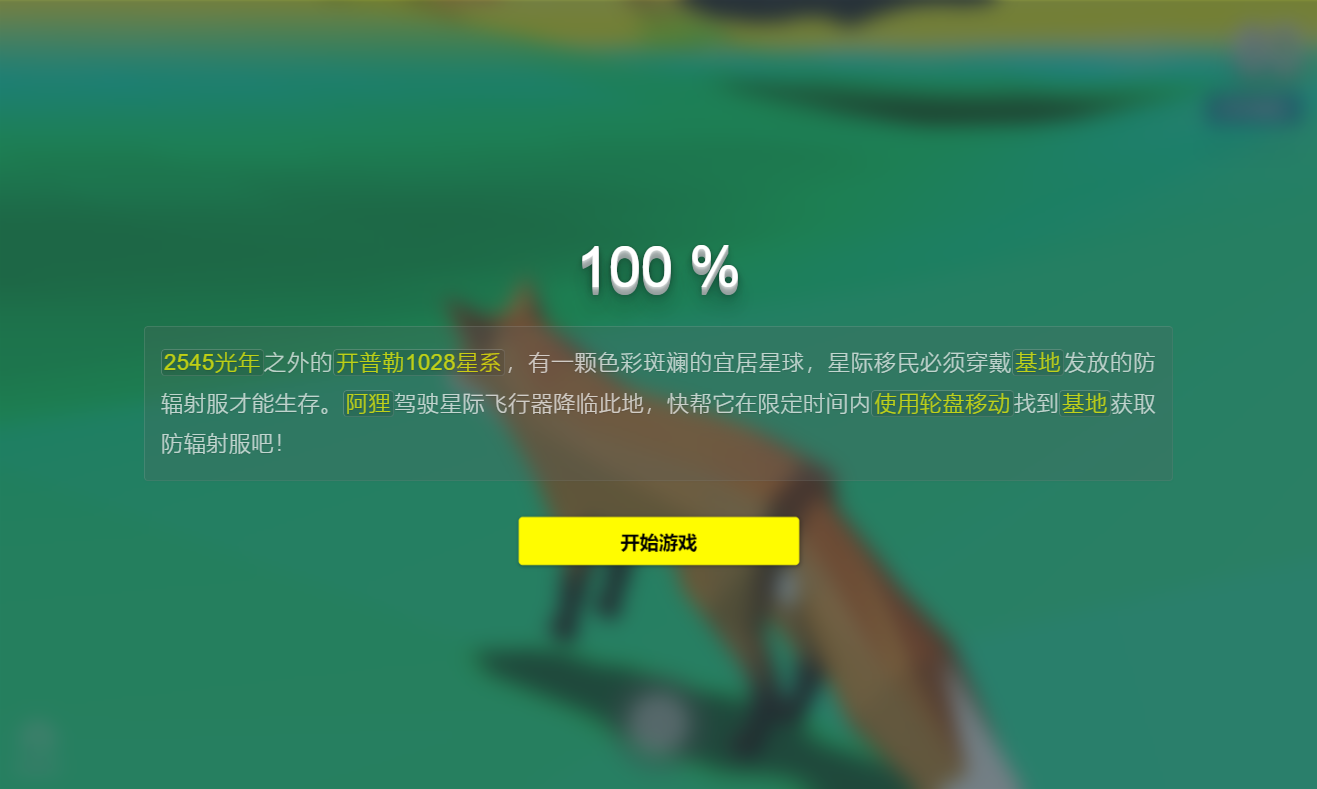
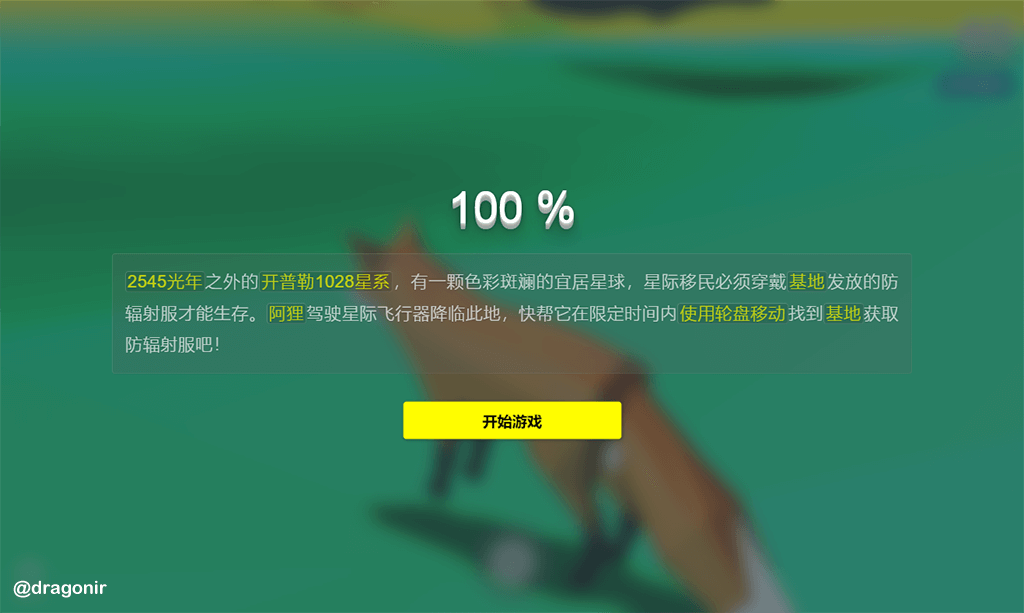
feat: Home 增加Metaverse入口、图片压缩优化.

diff --git a/src/containers/Home/index.js b/src/containers/Home/index.js
@@ -20,10 +20,9 @@ import humanImage from './images/human.png';
 import olympicImage from './images/olympic.png';
 import comicImage from './images/comic.png';
 import floatingImage from './images/floating.png';
-// import lowployImage from './images/lowploy.png';
 import liveImage from './images/live.png';
 import ringImage from './images/ring.png';
-
+import metaverseImage from './images/metaverse.png';
 
 import './index.css';
 
@@ -47,6 +46,13 @@ const workList = [
     title: '2022冬奥会3D趣味页面',
     description: '🐼 萌萌的冰墩墩和雪容融送给大家！',
     image: olympicImage,
+    three: true
+  },
+  {
+    link: '#/metaverse',
+    title: '阿狸的多元宇宙',
+    description: '🦊 阿狸的星际旷野之息！',
+    image: metaverseImage,
     three: true
   },
   {
@@ -179,14 +185,7 @@ const workList = [
     title: '塞尔达：旷野之息地图',
     description: '🗺 在地图上标记神庙、查询回忆点！',
     image: zeldaMapImage,
-  },
-  // {
-  //   link: '#/cityLowploy',
-  //   title: '低面数城市',
-  //   description: '🏙 3D数字城市 【⚠优化中】',
-  //   image: lowployImage,
-  //   three: true
-  // },
+  }
 ];
 
 export default class Home extends React.Component {

diff --git a/src/App.js b/src/App.js
@@ -14,7 +14,6 @@ import Diamond from './containers/Diamond/index';
 import Human from './containers/Human/index';
 import Olympic from './containers/Olympic/index';
 import Comic from './containers/Comic/index';
-import CityLowploy from './containers/CityLowploy/index';
 import Live from './containers/Live/index';
 import Floating from './containers/Floating/index';
 import Heart from './containers/Heart/index';
@@ -40,7 +39,6 @@ function App() {
           <Route element={ <Human /> } path="/human" />
           <Route element={ <Olympic /> } path="/olympic" />
           <Route element={ <Comic /> } path="/comic" />
-          <Route element={ <CityLowploy /> } path="/cityLowploy" />
           <Route element={ <Live /> } path="/live" />
           <Route element={ <Floating /> } path="/floating" />
           <Route element={ <Heart /> } path="/heart" />

diff --git a/src/containers/Metaverse/scripts/CannonHelper.js b/src/containers/Metaverse/scripts/CannonHelper.js
@@ -191,7 +191,7 @@ export default class CannonHelper {
           geometry.computeBoundingSphere();
           geometry.computeFaceNormals();
           var rev = true;
-          var cols = [{
+          var colors = [{
             stop: 0,
             color: new THREE.Color(0xf12711)
           }, {
@@ -207,7 +207,7 @@ export default class CannonHelper {
             stop: 1,
             color: new THREE.Color(0x053105)
           }];
-          setGradient(geometry, cols, 'z', rev);
+          setGradient(geometry, colors, 'z', rev);
           function setGradient(geometry, colors, axis, reverse) {
             geometry.computeBoundingBox();
             var bbox = geometry.boundingBox;

diff --git a/src/containers/Metaverse/README.md b/src/containers/Metaverse/README.md
@@ -31,22 +31,27 @@
 
 ## 设计
 
+游戏流程如下图所示，页面加载完成后点击开始按钮，然后在限定时间内通过控制页面滑轮移动模型，找到目标基地所在的位置，寻找成功或失败都会显示结果页，结果上面有两个按钮**再试一次**和**自由探索**，点击**再试一次**时间会重置，然后重新回到起点开始倒计时。点击**自由探索**则不在计时，玩家可以在3D开放世界里操作模型自由探索。同时，游戏内页面也提供一个**时光倒流**按钮，它的作用是玩家可以在失败前自己手动重置倒计时 `⏳`，重新回到起点开始游戏。
+
 ![progress](./images/progress.png)
 
 ## 实现
 
 ### 加载资源
 
+加载开发所需的必备资源：`GLTFLoader` 用于加载狐狸 `🦊` 和基地 `🏠` 模型、`CANNON` 是用于创建3D世界的物理引擎；`CannonHelper` 是对 `CANNON` 一些使用方法的封装；`JoyStick` 用于创建滑动屏幕控制模型的滚轮。
+
 ```js
-import React from 'react';
-import * as THREE from './libs/three.module';
-import { GLTFLoader } from './libs/GLTFLoader';
+import * as THREE from 'three';
+import { GLTFLoader } from 'three/examples/jsm/loaders/GLTFLoader';
 import CANNON from 'cannon';
 import CannonHelper from './scripts/CannonHelper';
 import JoyStick from './scripts/JoyStick';
 ```
 
 ### 页面结构
+
+页面结构比较简单，`.webgl` 用于渲染 `WEBGL`；`.tool` 是游戏内的工具栏，用于重置游戏和显示一些提示语；`.loading` 是游戏加载页面，用来显示游戏加载进度、介绍游戏规则、显示游戏开始按钮；`.result` 是游戏结果页面，用于显示游戏成功或失败结果，并提供**再试一次**和**自由探索**两个按钮。
 
 ```js
 (<div id="metaverse">
@@ -75,6 +80,8 @@ import JoyStick from './scripts/JoyStick';
 
 ### 数据初始化
 
+数据变量包括加载进度、是否显示加载页面、是否显示结果页、结果页文案、倒计时、是否开启自由探索等。
+
 ```js
 state = {
   loadingProcess: 0,
@@ -88,66 +95,84 @@ state = {
 
 ### 场景初始化
 
+初始化场景、相机、光源。
+
 ```js
-const canvas = document.querySelector('canvas.webgl');
 const renderer = new THREE.WebGLRenderer({
-  canvas: canvas,
+  canvas: document.querySelector('canvas.webgl'),
   antialias: true,
   alpha: true
 });
 renderer.setSize(window.innerWidth, window.innerHeight);
 renderer.setPixelRatio(Math.min(window.devicePixelRatio, 2));
 renderer.shadowMap.enabled = true;
-renderer.shadowMapSoft = true;
 renderer.shadowMap.type = THREE.PCFSoftShadowMap;
 const scene = new THREE.Scene();
-this.scene = scene;
+// 添加主相机
 const camera = new THREE.PerspectiveCamera(45, window.innerWidth / window.innerHeight, .01, 100000);
 camera.position.set(1, 1, -1);
-this.camera = camera;
 camera.lookAt(scene.position);
-
+// 添加环境光
 const ambientLight = new THREE.AmbientLight(0xffffff, .4);
 scene.add(ambientLight)
-
-// 添加 front & back 光源
+// 添加平行光
 var light = new THREE.DirectionalLight(0xffffff, 1);
 light.position.set(1, 1, 1).normalize();
 scene.add(light);
 ```
 
+#### `💡` 阴影类型
+
+本文使用了 `THREE.PCFSoftShadowMap` 以开启效果更加柔和的阴影，`Three.js` 提供以下几种阴影类型：
+
+* `THREE.BasicShadowMap`：提供未经过滤的阴影贴图，性能最快，但质量最低。
+* `THREE.PCFShadowMap`：使用 `Percentage-Closer Filtering (PCF)` 算法过滤阴影贴图，是默认类型。
+* `THREE.PCFSoftShadowMap`：使用 `PCF` 算法过滤的更加柔和的阴影贴图，尤其是在使用低分辨率阴影贴图时。
+* `THREE.VSMShadowMap`：使用方差阴影贴图 `VSM` 算法过滤的阴影贴图。 使用 `VSMShadowMap` 时，所有阴影接收者也会投射阴影。
+
 ### 创建世界
 
+使用 `Cannon.js` 初始化物理世界。
+
 ```js
-const cannonHelper = new CannonHelper(scene);
+// 初始化物理世界
 const world = new CANNON.World();
+// 在多个步骤的任意轴上测试刚体的碰撞
 world.broadphase = new CANNON.SAPBroadphase(world);
+// 设置物理世界的重力为沿y轴向上-10米每二次方秒
 world.gravity.set(0, -10, 0);
+// 创建默认联系材质
 world.defaultContactMaterial.friction = 0;
 const groundMaterial = new CANNON.Material("groundMaterial");
 const wheelMaterial = new CANNON.Material("wheelMaterial");
 const wheelGroundContactMaterial = new CANNON.ContactMaterial(wheelMaterial, groundMaterial, {
+  // 摩擦系数
   friction: 0,
+  // 恢复系数
   restitution: 0,
+  // 接触刚度
   contactEquationStiffness: 1000
 });
 world.addContactMaterial(wheelGroundContactMaterial);
 ```
 
+#### `💡` Cannon.js
+
+`Cannon.js` 是用 `JavaScript` 实现的物理引擎库，可以与任何支持浏览器的渲染或游戏引擎，可以用于模拟刚体，实现3D世界中更加真实的物理形式的移动和交互。更多 `Cannon.js` 相关 `API` 文档和示例可以参考文章末尾链接。
+
 ### 创建星空
 
+创建 `1000` 个粒子用于模型星空，并将它们添加到场景中。本示例中通过着色器形式创建粒子，这样更有利于 `GPU` 高效率渲染。
+
 ```js
-// 星空粒子
 const textureLoader = new THREE.TextureLoader();
-const imageSrc = textureLoader.load(snowflakeTexture);
 const shaderPoint = THREE.ShaderLib.points;
 const uniforms = THREE.UniformsUtils.clone(shaderPoint.uniforms);
-uniforms.map.value = imageSrc;
-var sparkGeometry = new THREE.Geometry();
+uniforms.map.value = textureLoader.load(snowflakeTexture);
 for (let i = 0; i < 1000; i++) {
   sparkGeometry.vertices.push(new THREE.Vector3());
 }
-const sparks = new THREE.Points(sparkGeometry, new THREE.PointsMaterial({
+const sparks = new THREE.Points(new THREE.Geometry(), new THREE.PointsMaterial({
   size: 2,
   color: new THREE.Color(0xffffff),
   map: uniforms.map.value,
@@ -157,29 +182,39 @@ const sparks = new THREE.Points(sparkGeometry, new THREE.PointsMaterial({
   opacity: 0.75
 }));
 sparks.scale.set(1, 1, 1);
-scene.add(sparks);
 sparks.geometry.vertices.map(spark => {
   spark.y = randnum(30, 40);
   spark.x = randnum(-500, 500);
   spark.z = randnum(-500, 500);
   return true;
 });
+scene.add(sparks);
 ```
 
 ![star](./images/star.png)
 
 ### 创建地形
 
+通过 `CANNON.Shape.types.HEIGHTFIELD` 高度场创建 `128 x 128 x 60` 可视化渐变色地形。地形的凹凸起伏状态是通过以下高度图 `HeightMap` 实现，它是一张黑白图片，通过像素点的颜色深浅来记录高度信息，可通过文章末尾提供的链接在线生成随机高度图。地形生成完成并将它添加到世界中。
+
+![HeightMap](./images/HeightMap.png)
+
 ```js
+const cannonHelper = new CannonHelper(scene);
 var sizeX = 128, sizeY = 128, minHeight = 0, maxHeight = 60, check = null;
 Promise.all([
+  // 加载高度图
   img2matrix.fromUrl(heightMapImage, sizeX, sizeY, minHeight, maxHeight)(),
 ]).then(function (data) {
   var matrix = data[0];
-  const terrainShape = new CANNON.Heightfield(matrix, { elementSize: 10 });
+  // 地形体
   const terrainBody = new CANNON.Body({ mass: 0 });
+  // 地形形状
+  const terrainShape = new CANNON.Heightfield(matrix, { elementSize: 10 });
   terrainBody.addShape(terrainShape);
+  // 地形位置
   terrainBody.position.set(-sizeX * terrainShape.elementSize / 2, -10, sizeY * terrainShape.elementSize / 2);
+  // 设置从轴角度
   terrainBody.quaternion.setFromAxisAngle(new CANNON.Vec3(1, 0, 0), -Math.PI / 2);
   world.add(terrainBody);
   cannonHelper.addVisual(terrainBody, 'landscape');
@@ -209,9 +244,23 @@ Promise.all([
 });
 ```
 
-![HeightMap](./images/HeightMap.png)
-
 ![land](./images/land.png)
+
+#### `💡` CANNON.Shape.types.HEIGHTFIELD
+
+cannon.js物理引擎之Heightfield高度场，学过场论的朋友都知道物理学中把某个物理量在空间的一个区域内的分布称为场，高度场就是与高度相关的场，而cannon.js物理引擎的Heightfield的高度就是关于两个变量的函数，可以表达为HEIGHT(i,j)。当然知不知道场论不耽误我们学习Heightfield，下面就是一个由Heightfield生成的高度场
+
+1. Heightfield的用法
+说用法之前我们不妨看看他的API，文档对于它的说明是 – “高度数据以数组形式给出。这些数据点以给定的距离均匀分布”。构造函数如下。
+
+```js
+Heightfield ( data , options )
+```
+
+data是一个Y值数组，将用于构建地形。options是一个配置项，有三个可配置参数。minValue是数据数组中数据点的最小值。如果未给出，将自动计算。maxValue最大值。elementSize是X方向上数据点之间的世界间距。他还有一些属性和方法请大家自行观看，我就不多说了。
+
+高度场Heightfield本质和cannon.js一样还是一种数据的表达形式，想要把它应用到three中仍然需要对应的图形来表达（就像CANNON.Box数据需要THREE.BoxBuferGeometry几何体一样），对应的几何体就是ParametricBufferGeometry，下面我们以一个案例来实际操作一下。
+
 
 ### 加载进度管理
 
@@ -348,6 +397,8 @@ const updateCamera = () => {
 }
 ```
 
+> `🦊` 轮盘控制器 `JoyStick` 类实现可参考文章末尾 `Codepen` 链接。
+
 ### 动画更新
 
 ```js
@@ -448,3 +499,11 @@ discover = () => {
 * [7]. [Three.js 实现脸书元宇宙3D动态Logo](https://juejin.cn/post/7031893833163997220)
 * [8]. [Three.js 实现3D全景侦探小游戏](https://juejin.cn/post/7042298964468564005)
 * [9]. [Three.js 实现炫酷的酸性风格3D页面](https://juejin.cn/post/7012996721693163528)
+
+## 参考资料
+
+* [1] [threejs.org](https://threejs.org/)
+* [2] [cannonjs.org](http://www.cannonjs.org/)
+* [3] [heightmap-generator](http://heightmap-generator.com/)
+* [4] [three.js cannon.js物理引擎之Heightfield](https://www.mrguo.link/article?id=53)
+* [5] [Joggin' version 0.1](https://codepen.io/b29/pen/JjyJWEg)
